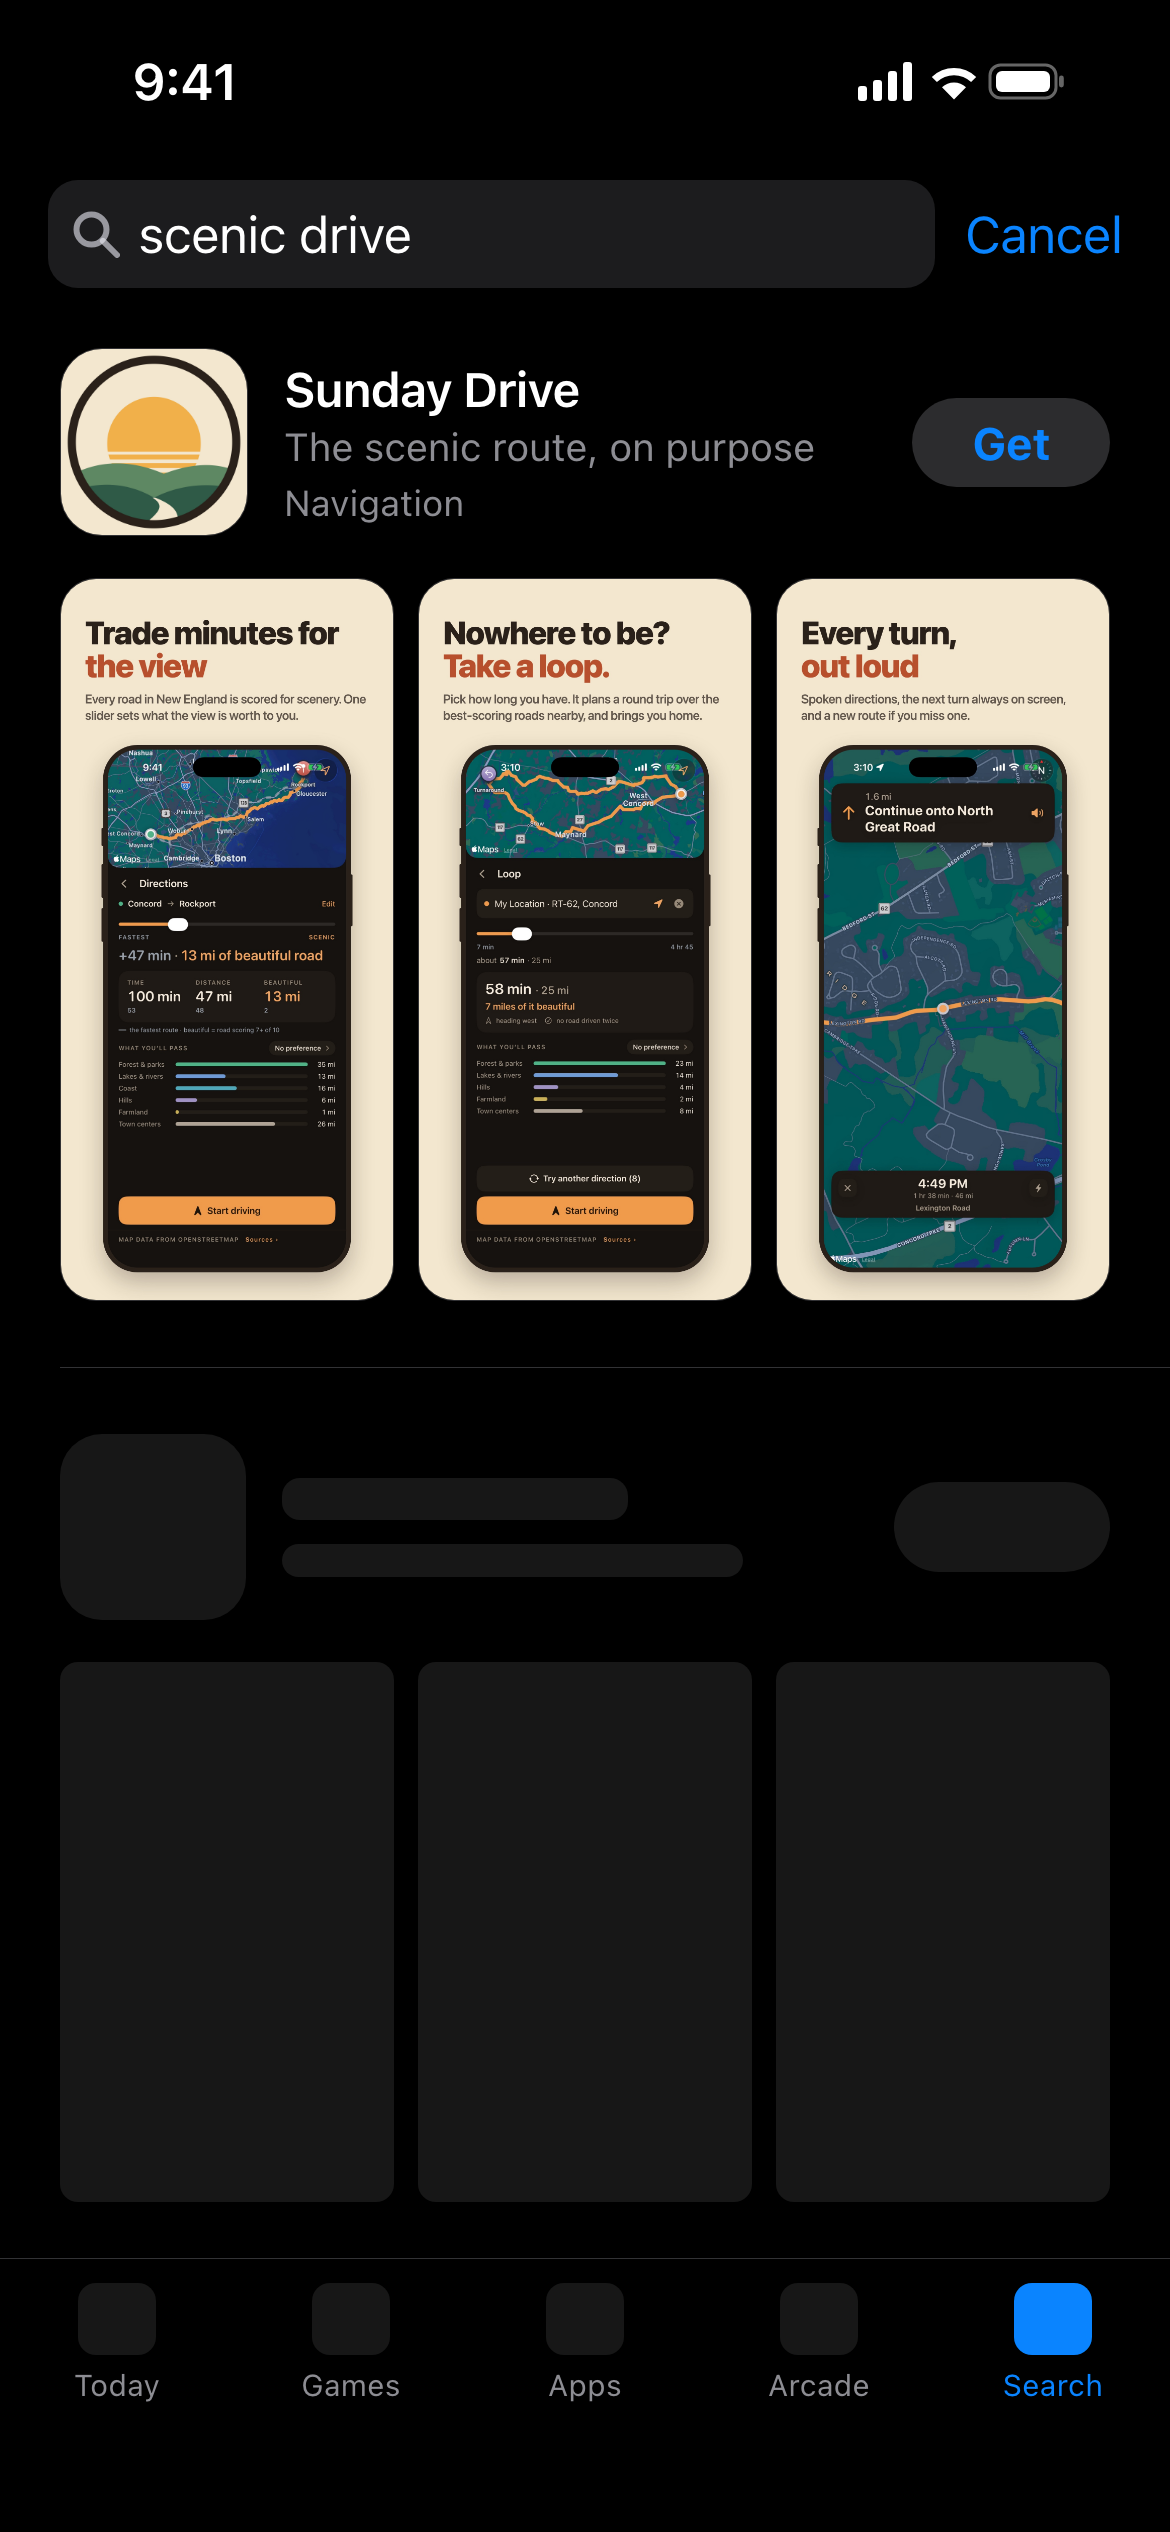
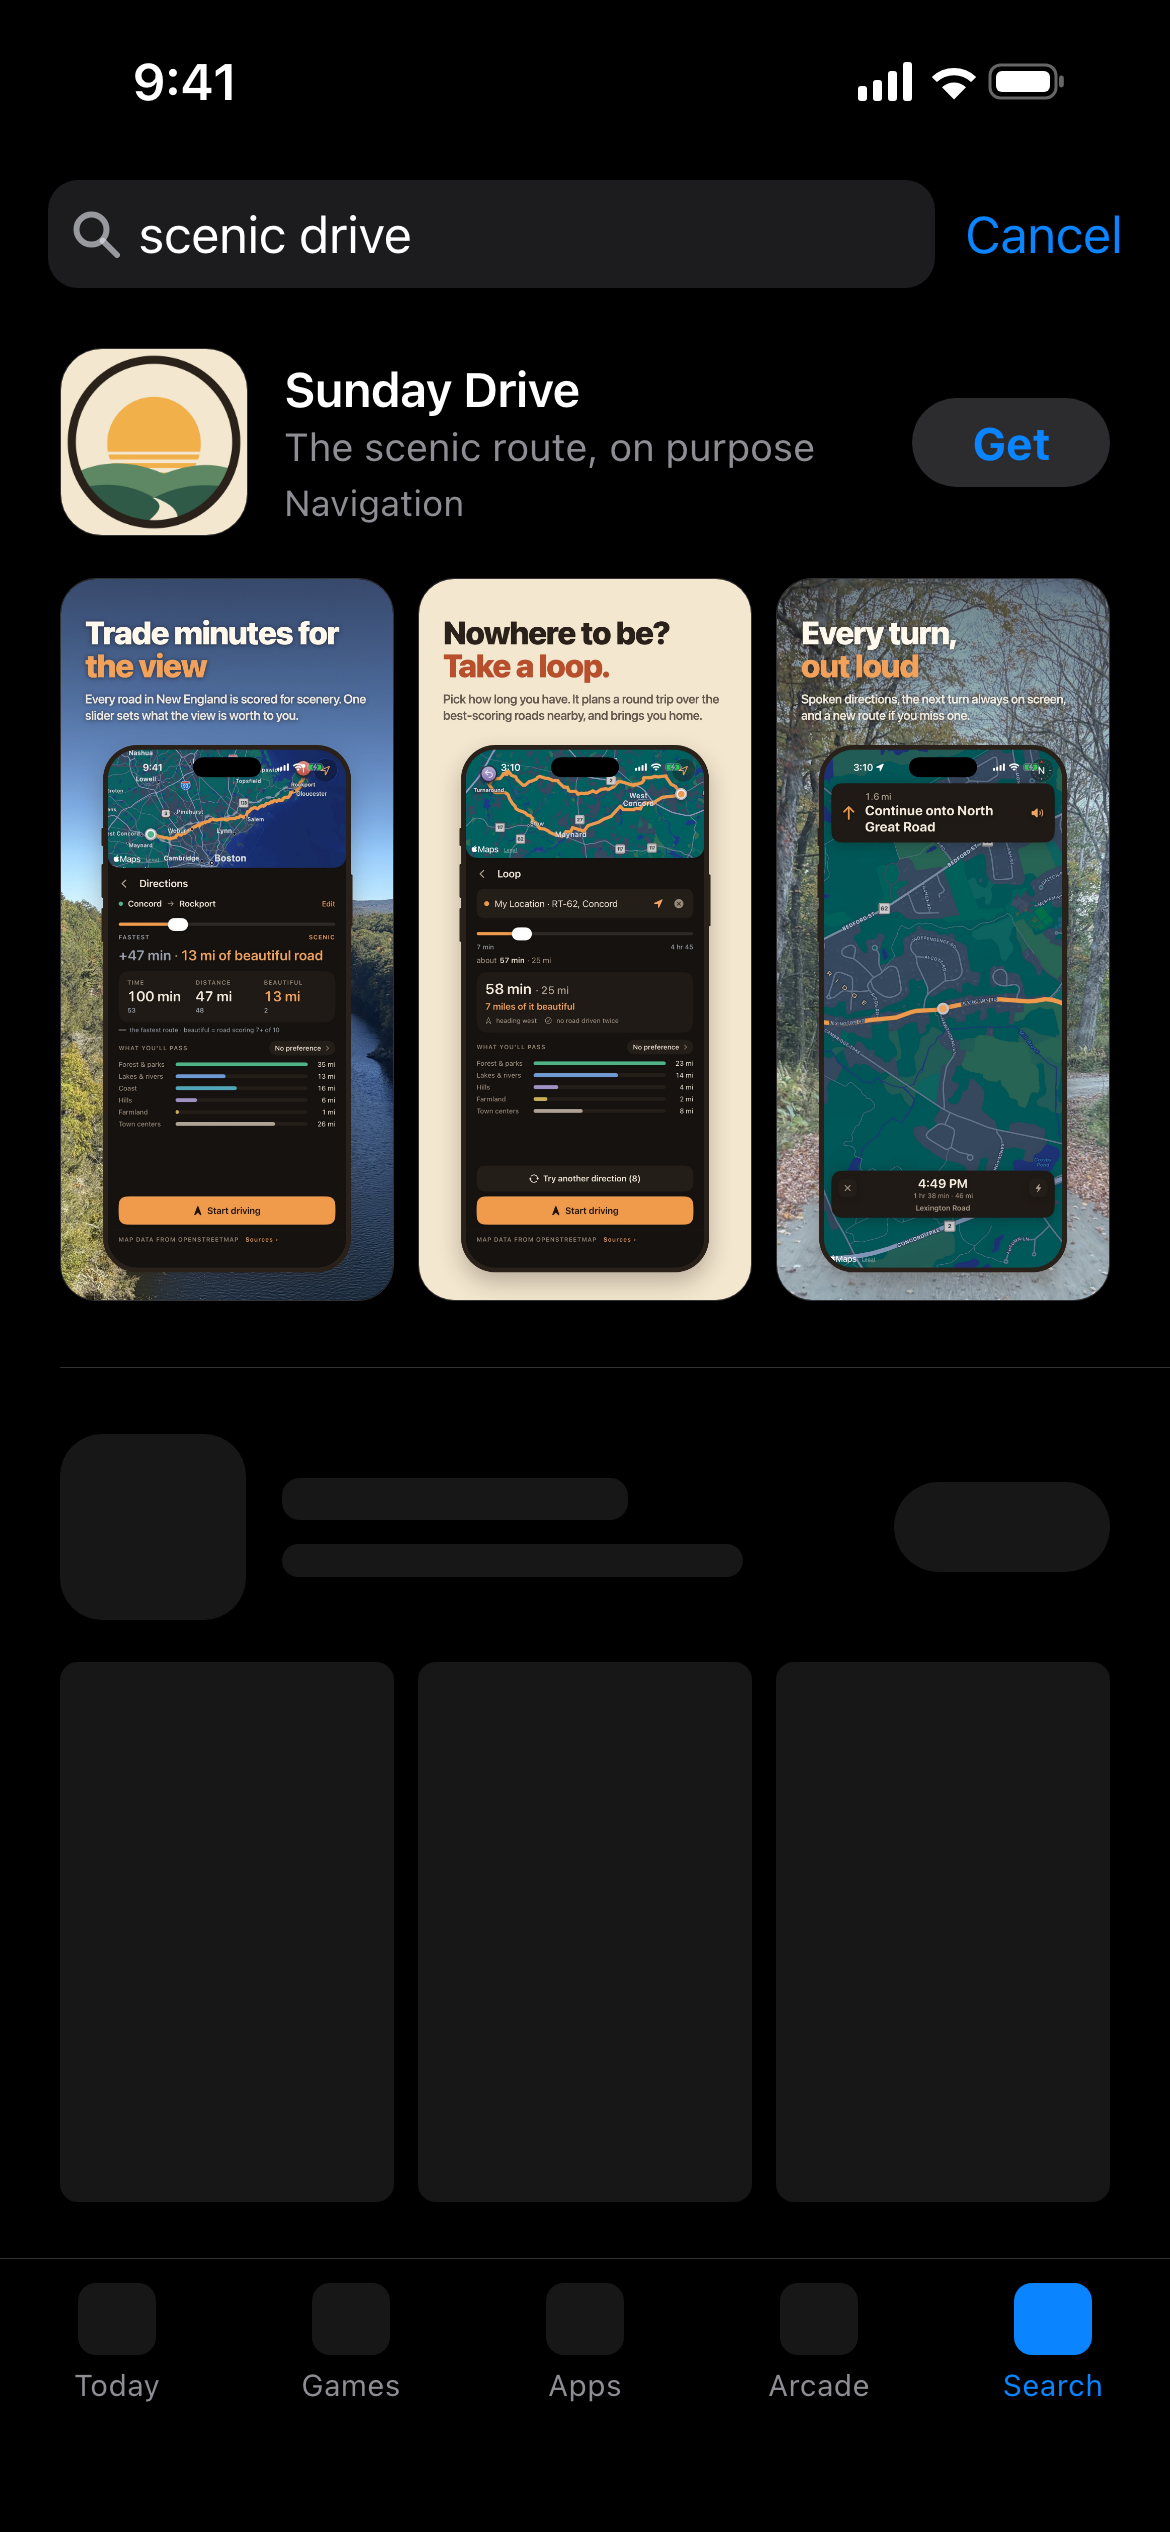
Put the owner's own New England photos behind two App Store screenshots
The French King Gorge on Route 2 behind the route comparison, and a gravel
road in autumn behind the driving shot, cropped so no dashboard shows. Both
re-encoded with no metadata, since phone EXIF carries where each was taken.
The loop and home shots stay on cream, so the first three alternate.

Changed region(s): [[0.6462, 0.2184, 0.9538, 0.5304], [0.0308, 0.2184, 0.3385, 0.5304]]

diff --git a/app-store-screenshots/build.py b/app-store-screenshots/build.py
@@ -47,7 +47,15 @@ PINE = "#2F5A47"
 NAME = "Sunday Drive"
 SUBTITLE = "The scenic route, on purpose"
 
-# (raw capture, headline with the accent in *stars*, the line under it).
+# Light text and accent for the headline over a photo, where cream and rust
+# would sink into the sky. The accent is the app's own route orange.
+PAPER = "#FFF8EC"
+ROUTE = "#F2A25A"
+
+# (raw capture, headline with the accent in *stars*, the line under it, and
+# optionally a photo behind it: (file in photos/, CSS object-position)).
+# The photos are the owner's own, from drives on 2026-10-06, re-encoded with
+# no metadata at all, because a phone photo's EXIF carries where it was taken.
 # Claims follow docs/app-store-listing.md: the trade is against the app's own
 # fastest route, "best-scoring" not "most beautiful", and New England is said
 # in the first frame because only the first three show in search. The accent
@@ -55,13 +63,15 @@ SUBTITLE = "The scenic route, on purpose"
 SHOTS = [
     ("1-route-comparison.jpg",
      "Trade minutes for *the view*",
-     "Every road in New England is scored for scenery. One slider sets what the view is worth to you."),
+     "Every road in New England is scored for scenery. One slider sets what the view is worth to you.",
+     ("french-king-gorge.jpg", "50% 50%")),  # the Connecticut River from Route 2
     ("2-loop.jpg",
      "Nowhere to be? *Take a loop.*",
      "Pick how long you have. It plans a round trip over the best-scoring roads nearby, and brings you home."),
     ("3-driving.jpg",
      "Every turn, *out loud*",
-     "Spoken directions, the next turn always on screen, and a new route if you miss one."),
+     "Spoken directions, the next turn always on screen, and a new route if you miss one.",
+     ("gravel-road.jpg", "50% 50%")),  # cropped to the road: no dashboard, no roof edge
     ("4-home.jpg",
      "Somewhere, or *nowhere at all*",
      "Search for a destination, or loop from where you are. Free, with no account and no ads."),
@@ -98,20 +108,33 @@ def phone_html(src, screen_w, left, top, style=""):
             f'<img src="{src.as_uri()}" style="height:{screen_h}px;border-radius:{radius}px"></div>')
 
 
-def screenshot_page(raw, headline, sub):
-    # The whole phone fits under the header, 110 px clear of the foot.
+def screenshot_page(raw, headline, sub, photo=None):
+    # The whole phone fits under the header, 110 px clear of the foot. With a
+    # photo, it fills the page and an ink wash behind the header keeps the
+    # type readable against sky.
     top, foot = 660, 110
     screen_w = round((H - top - foot) / (H / W + 2 / 50))
     left = (W - screen_w - 2 * round(screen_w / 50)) // 2
+    head_color, accent, sub_color, backdrop = INK, RUST, "rgba(43,33,27,.72)", ""
+    if photo:
+        name, position = photo
+        head_color, accent, sub_color = PAPER, ROUTE, "rgba(255,248,236,.9)"
+        backdrop = (f'<img class="photo" src="{(HERE / "photos" / name).as_uri()}" '
+                    f'style="object-position:{position}"><div class="wash"></div>')
     return f"""<!doctype html><html><head><meta charset="utf-8"><style>
 html,body{{margin:0;width:{W}px;height:{H}px;overflow:hidden;background:{CREAM}}}
-body{{font-family:-apple-system,"SF Pro Display",system-ui,sans-serif;color:{INK};position:relative}}
-.head{{position:absolute;left:96px;right:96px;top:150px}}
+body{{font-family:-apple-system,"SF Pro Display",system-ui,sans-serif;color:{head_color};position:relative}}
+.photo{{position:absolute;inset:0;width:100%;height:100%;object-fit:cover}}
+.wash{{position:absolute;left:0;right:0;top:0;height:1100px;
+  background:linear-gradient(rgba(30,22,17,.5),rgba(30,22,17,.25) 55%,rgba(30,22,17,0))}}
+.head{{position:absolute;left:96px;right:96px;top:150px;{"text-shadow:0 2px 18px rgba(20,14,10,.55)" if photo else ""}}}
 h1{{margin:0;font-size:128px;line-height:1.02;font-weight:800;letter-spacing:-0.025em}}
-h1 em{{font-style:normal;color:{RUST};display:block}}
-p{{margin:34px 0 0;font-size:50px;line-height:1.3;font-weight:500;color:rgba(43,33,27,.72);letter-spacing:-0.005em}}
+h1 em{{font-style:normal;color:{accent};display:block}}
+p{{margin:34px 0 0;font-size:50px;line-height:1.3;font-weight:500;color:{sub_color};letter-spacing:-0.005em}}
 {phone_css()}
+.phone{{z-index:1}}
 </style></head><body>
+{backdrop}
 <div class="head"><h1>{headline_html(headline)}</h1><p>{html.escape(sub)}</p></div>
 {phone_html(HERE / raw, screen_w, left, top)}
 </body></html>"""
@@ -266,9 +289,9 @@ def _chrome(profile, src, out_png, width, height, scale):
 def main():
     OUT.mkdir(exist_ok=True)
     finished = []
-    for raw, headline, sub in SHOTS:
+    for raw, headline, sub, *photo in SHOTS:
         png = OUT / (pathlib.Path(raw).stem + ".png")
-        render(screenshot_page(raw, headline, sub), png, W, H)
+        render(screenshot_page(raw, headline, sub, *photo), png, W, H)
         jpg = png.with_suffix(".jpg")
         subprocess.run(["sips", "-s", "format", "jpeg", "-s", "formatOptions", "92",
                         str(png), "--out", str(jpg)], check=True, capture_output=True)
